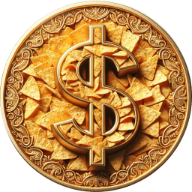
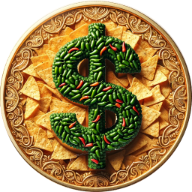
updates

Changed region(s): [[0.25, 0.0938, 0.75, 0.9062]]

diff --git a/index.html b/index.html
@@ -2,7 +2,7 @@
 <html>
   <head>
     <title>Nacho Keys Nacho Coins - Get Down with DeFi</title>
-	<link rel="icon" type="image/x-icon" href="./favicon.ico?v=3">
+	<link rel="icon" type="image/x-icon" href="./favicon.ico?v=4">
     <meta charset="utf-8" />
     <meta
       name="viewport"
@@ -33,7 +33,7 @@
         <div class="logo">
           <a href="/" class="flexed"
             ><img
-              src="images/plain-nacho.png?v=2"
+              src="images/plain-nacho.png?v=4"
               height="50"
               width="50"
               alt="Nacho Keys Logo"
@@ -47,7 +47,7 @@
     <section class="hero">
         <div class="flexed">
             <img
-              src="images/text-and-character.jpg?v=2"
+              src="images/text-and-character.jpg?v=4"
               alt="Nacho Character"
             />
         </div>
